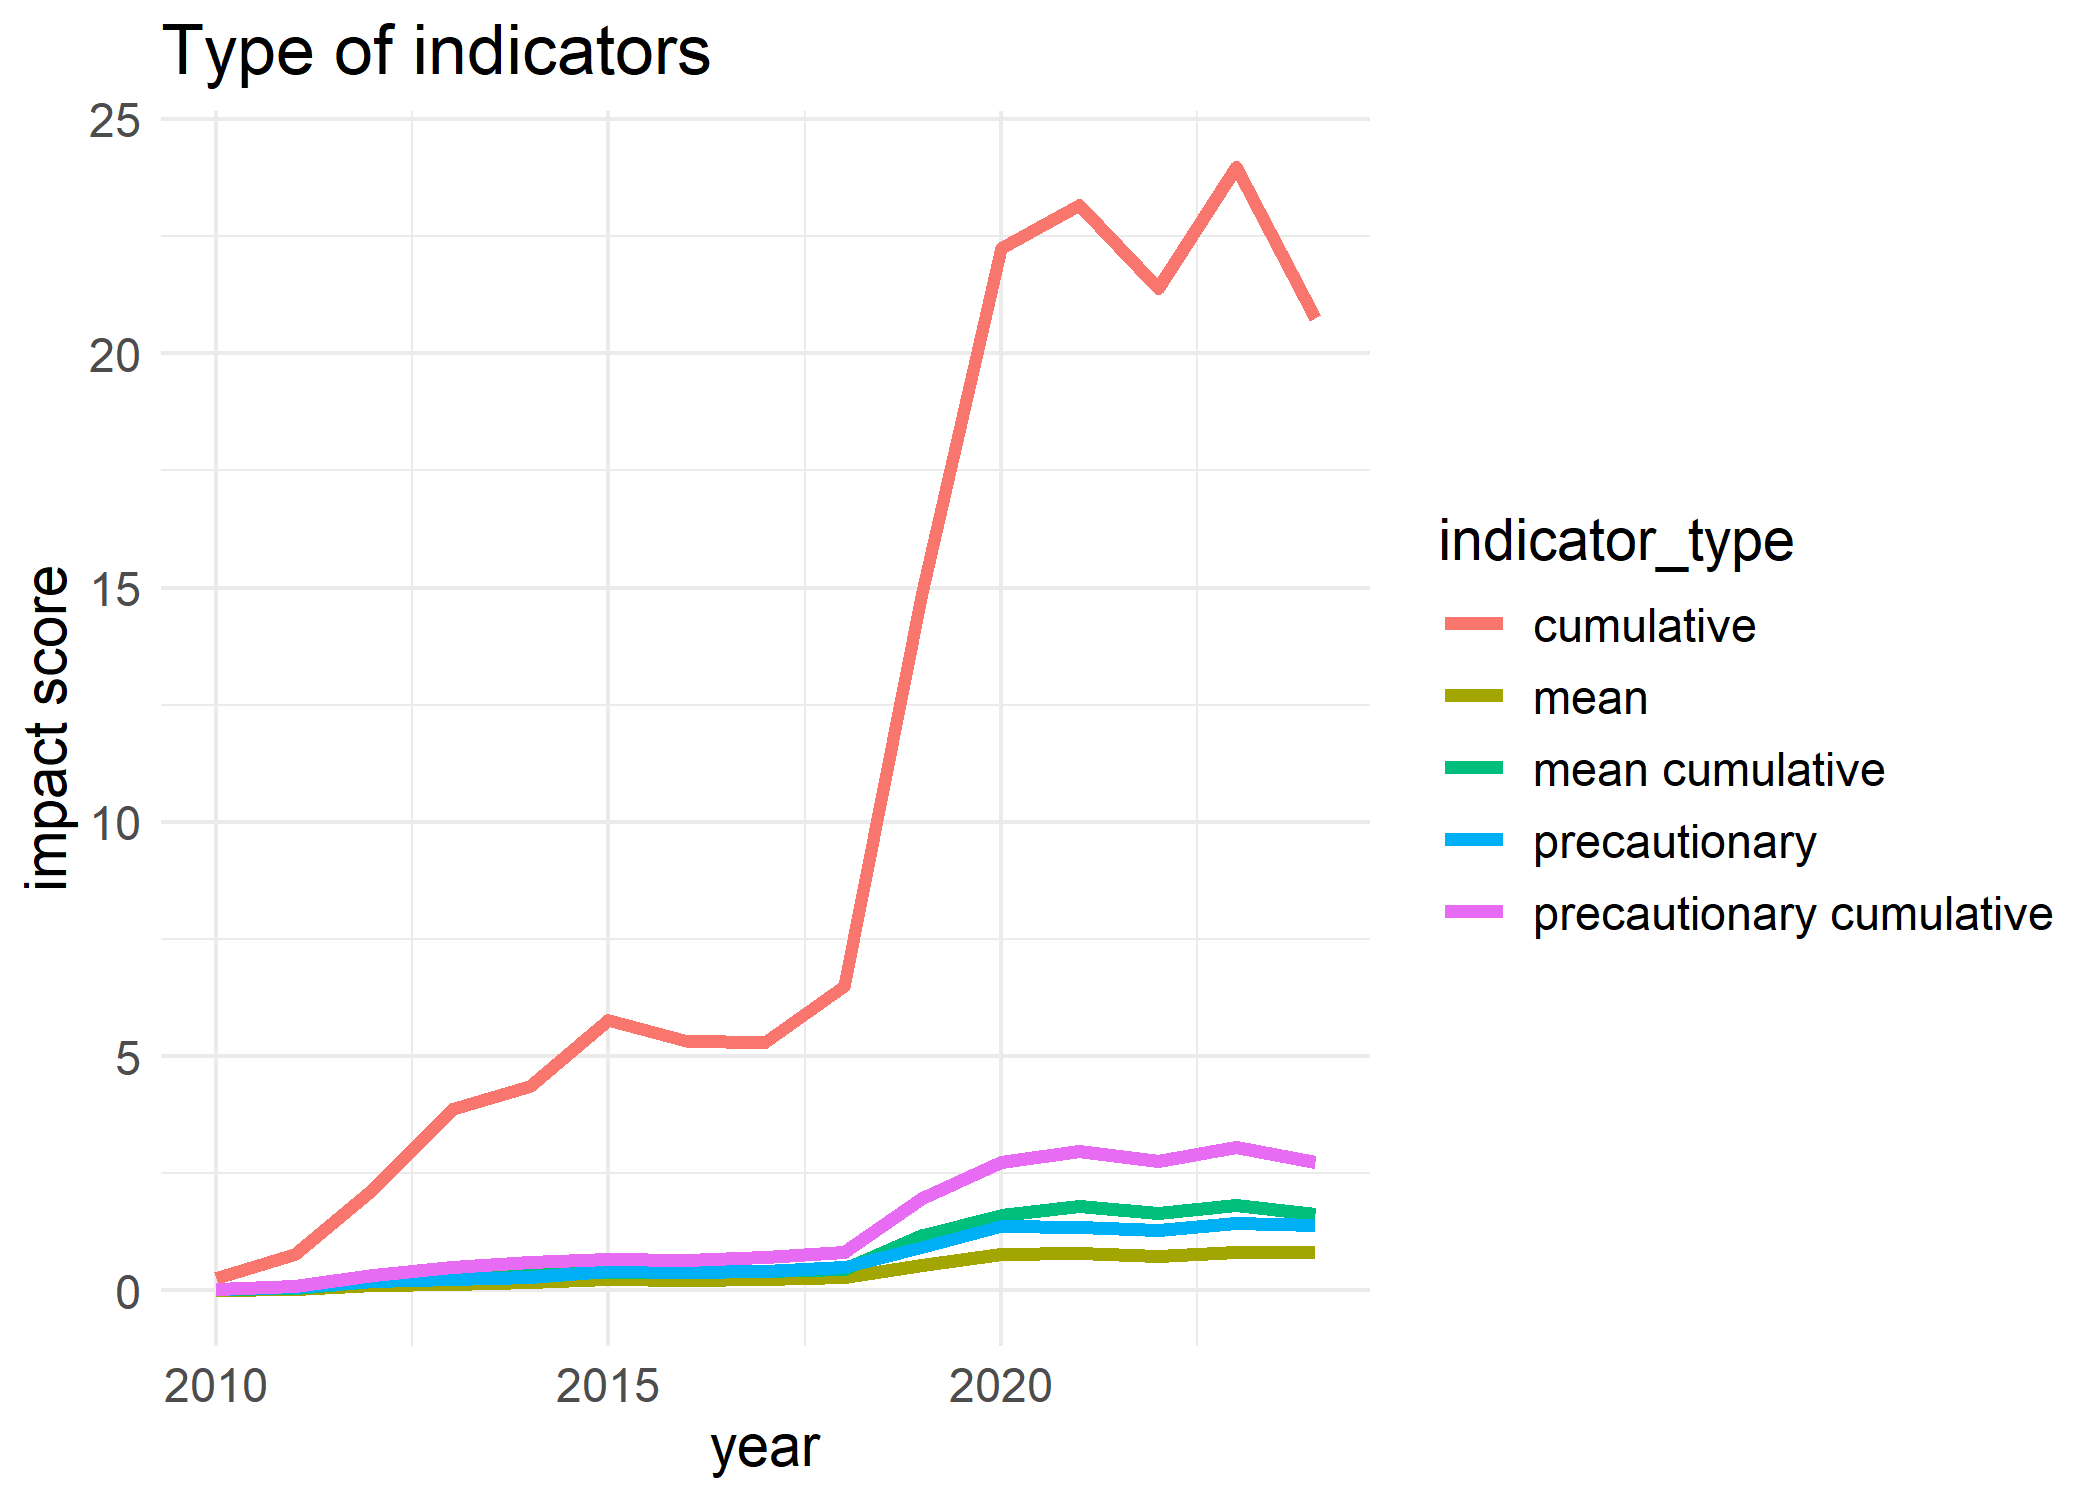
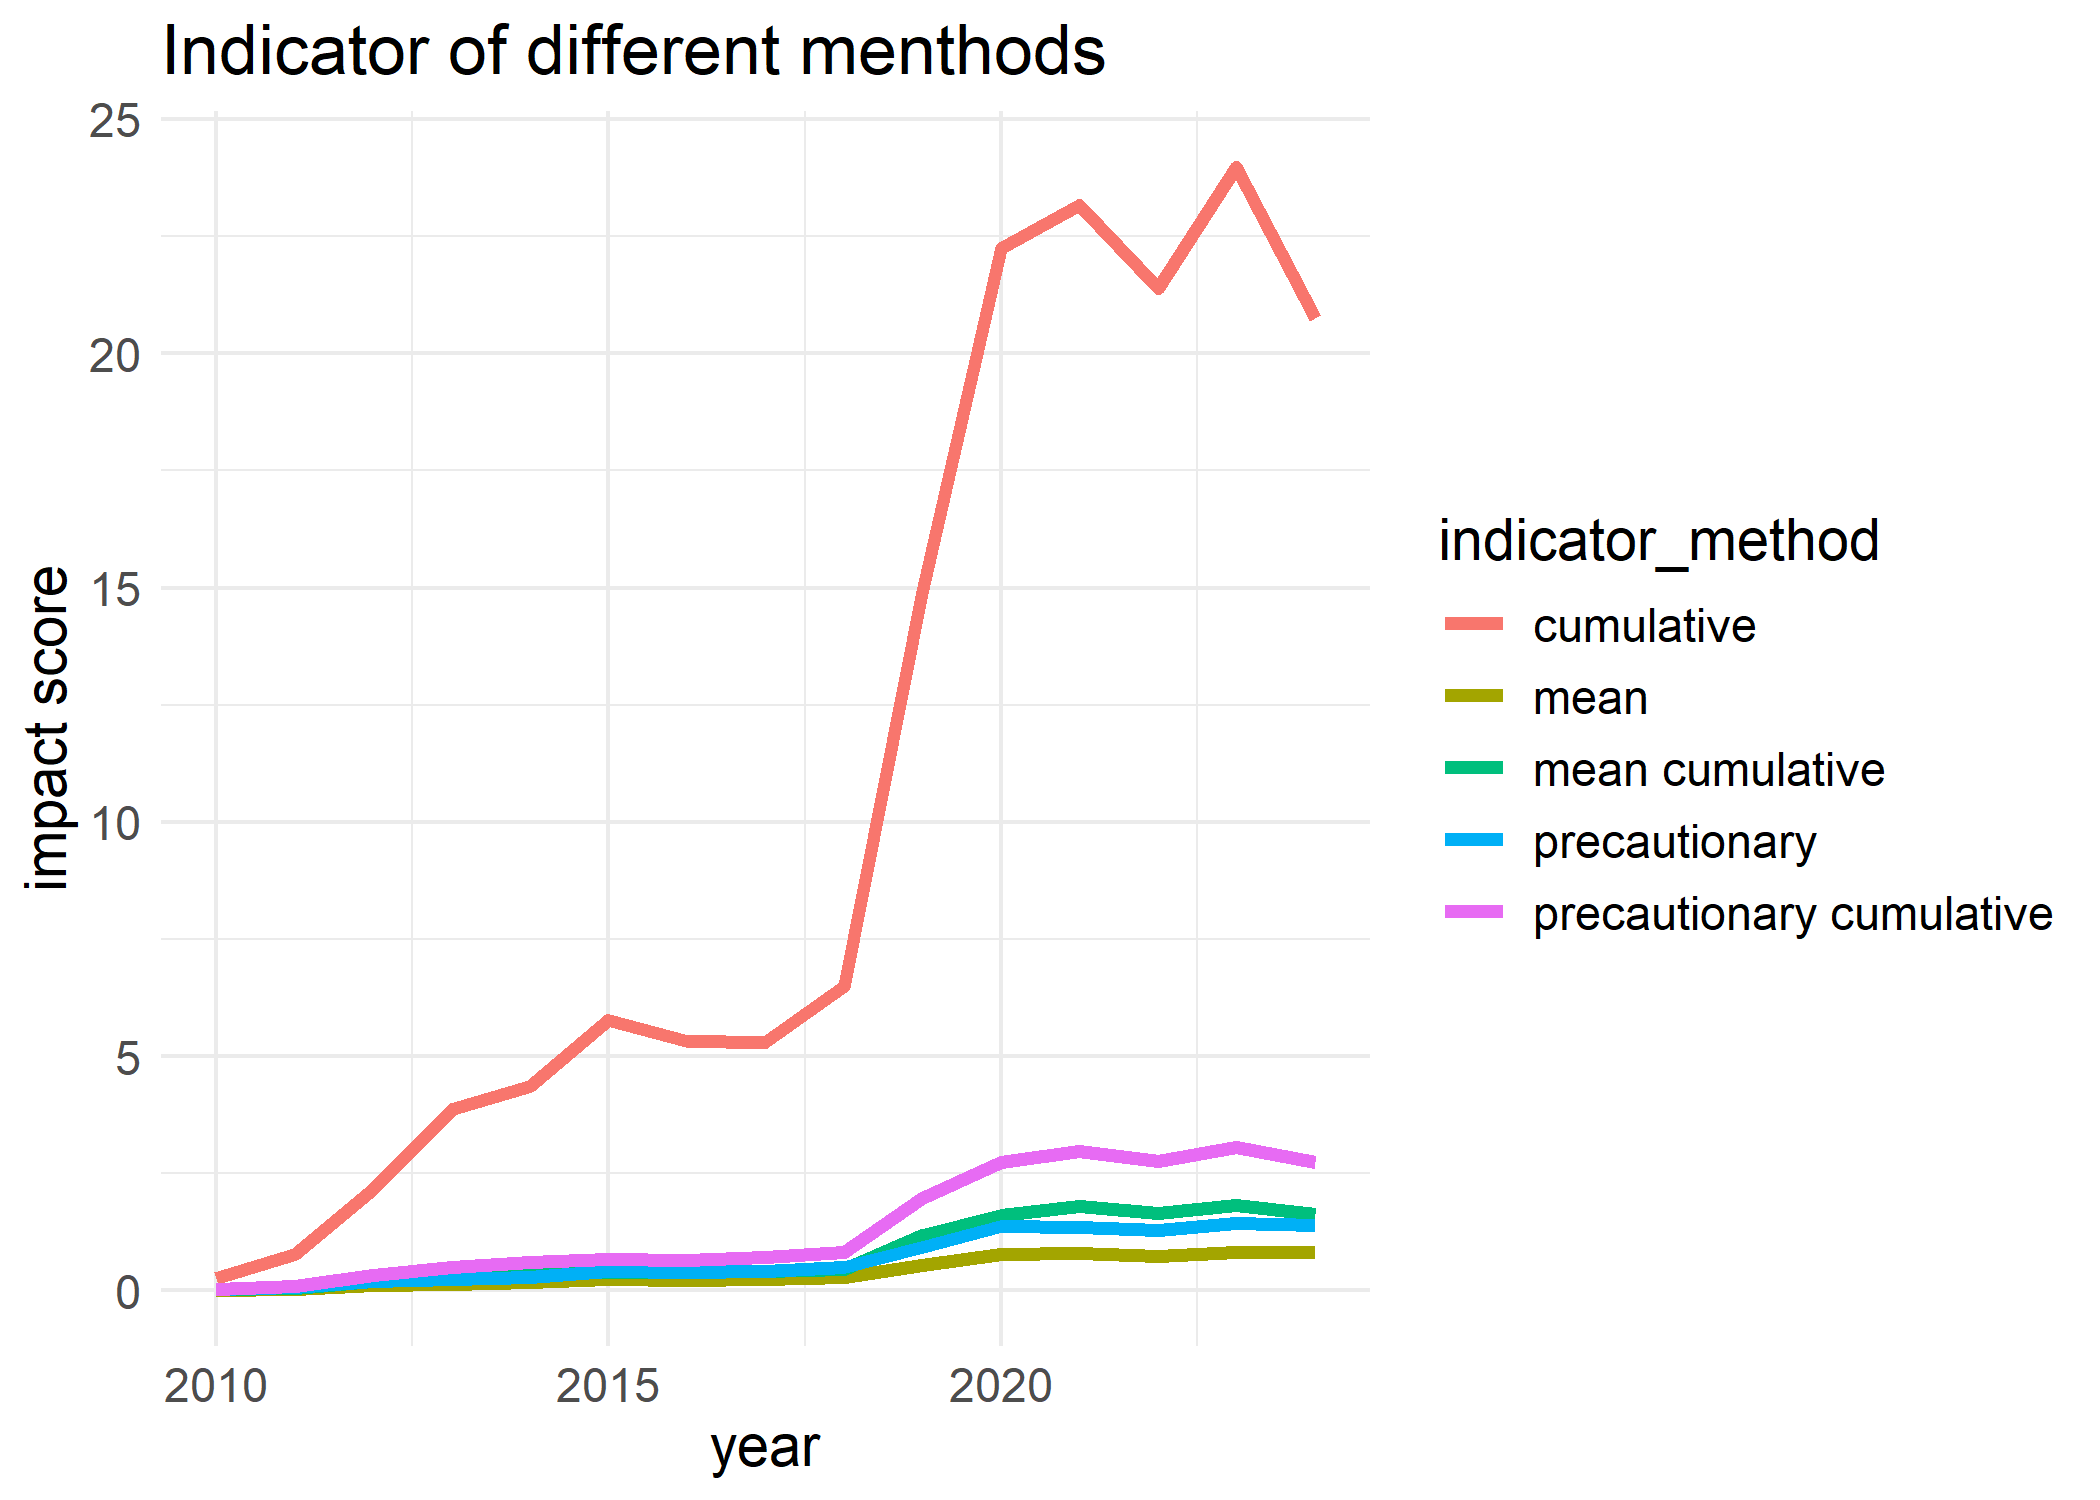
update README

Changed region(s): [[0.0619, 0.0, 0.5262, 0.0613], [0.8048, 0.3373, 0.8976, 0.3987]]

diff --git a/README.md b/README.md
@@ -21,7 +21,7 @@ different studies.
 
 The impIndicator produces three main products and can be useful as
 stated below:  
-- **impact indicator** \<`impact_indicator()`\>  
+-**impact indicator** \<`impact_indicator()`\>  
 The impact indicator offers a nuanced representation of the trends of
 biological invasions of an area (local, regional, or global scales). By
 tracking the increase and decrease of ecological threats over time, this
@@ -30,7 +30,7 @@ impacts, helping assess whether current management practices are
 effective or need adjustment. The temporal analysis of impact indicator
 enables targeted resource allocation, fostering proactive interventions
 to mitigate biodiversity loss and ecosystem degradation.  
-- **site impact** \<`site_impact()`  
+-**site impact** \<`site_impact()`  
 The site impact as a map serves as a visual and analytical tool to
 represent the intensity of biological invasions across different parts
 of an area. By enabling spatial comparisons—such as between provinces,
@@ -39,7 +39,7 @@ of invasion impact. This spatial data is useful for prioritising
 management actions, coordinating restoration projects, and fostering
 cross-regional collaboration to address invasive species impacts
 effectively.  
-- **species impact** \<`species_impact()`  
+-**species impact** \<`species_impact()`  
 The species impact produces the trends of individual invasive alien
 species, enabling a species-specific impact caused by invasions. This
 data supports comparisons of individual species’ impacts, revealing
@@ -168,15 +168,15 @@ scores across species at each site are needed. The `site_impact()` uses
 *max*, *sum* and *mean* metrics to aggregate impact scores across
 species as proposed by Boulesnane-Guengant et al., (in preparation). The
 combinations of within species aggregation metrics for each species and
-across species for each site leads to five type of indicators, namely,
-**precautionary**, **precautionary cumulative**, **mean**, **mean
-cumulative** and **cumulative**.  
+across species for each site leads to five methods of calculating an
+impact indicator, namely, **precautionary**, **precautionary
+cumulative**, **mean**, **mean cumulative** and **cumulative**.  
 
 ``` r
 siteImpact <- site_impact(
   cube = acacia_cube,
   impact_data = eicat_acacia,
-  type = "mean cumulative"
+  method = "mean cumulative"
 )
 
 # impact map
@@ -200,7 +200,7 @@ year.
 impactIndicator <- impact_indicator(
   cube = acacia_cube,
   impact_data = eicat_acacia,
-  type = "mean cumulative"
+  method = "mean cumulative"
 )
 # visualise impact indicator
 plot(impactIndicator)
@@ -219,7 +219,7 @@ map per species and correct for sampling effort by dividing by $N$.
 species_value <- species_impact(
   cube = acacia_cube,
   impact_data = eicat_acacia,
-  type = "mean"
+  method = "mean"
 )
 
 # visualise species impact
@@ -230,14 +230,15 @@ plot(species_value)
 
 <img src="man/figures/README-unnamed-chunk-6-1.png" width="100%" />
 
-# Comparing type of indicators
+# Comparing method of indicators
 
-To compare type of impact indicators for a case study, we provide a plot
-which can be adapted by a user to compare a set of method.
+To compare methods used in calculating of impact indicators for a case
+study, we provide a plot which can be adapted by a user to compare a set
+of method.
 
 ``` r
-# plot all type of impact indicators
-types <- c(
+# plot all method of impact indicators
+methods <- c(
   "precautionary",
   "precautionary cumulative",
   "mean",
@@ -246,25 +247,25 @@ types <- c(
 )
 
 all_impact <- data.frame("year" = unique(acacia_cube$data$year))
-for (type in types) {
+for (method in methods) {
   impact_value <- impact_indicator(
     cube = acacia_cube,
     impact_data = eicat_acacia,
-    trans = 1,
-    type = type
+    method = method,
+    trans = 1
   )
 
-  all_impact[type] <- impact_value$value
+  all_impact[method] <- impact_value$diversity_val
 }
 
 #plot the trend
 all_impact %>%
-  gather(-year, key = "indicator_type", value = "impact_score") %>%
+  gather(-year, key = "indicator_method", value = "impact_score") %>%
   ggplot(aes(x = year, y = impact_score)) +
-  geom_line(aes(color = indicator_type), linewidth = 1.5) +
+  geom_line(aes(color = indicator_method), linewidth = 1.5) +
   theme_minimal() +
   labs(
-    title = "Type of indicators",
+    title = "Indicator of different menthods",
     y = "impact score"
   ) +
   theme(text = element_text(size = 14))
